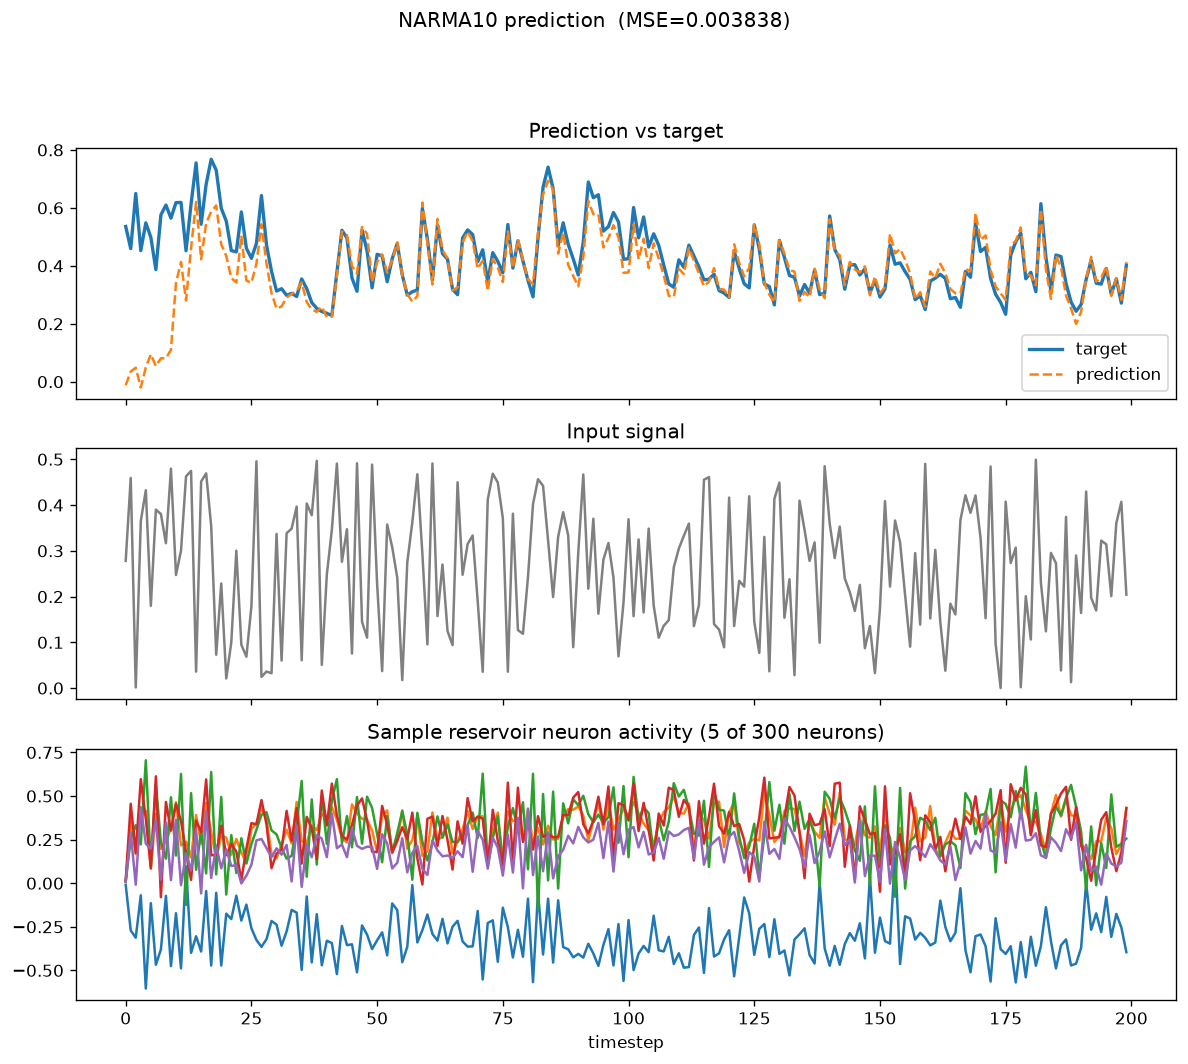
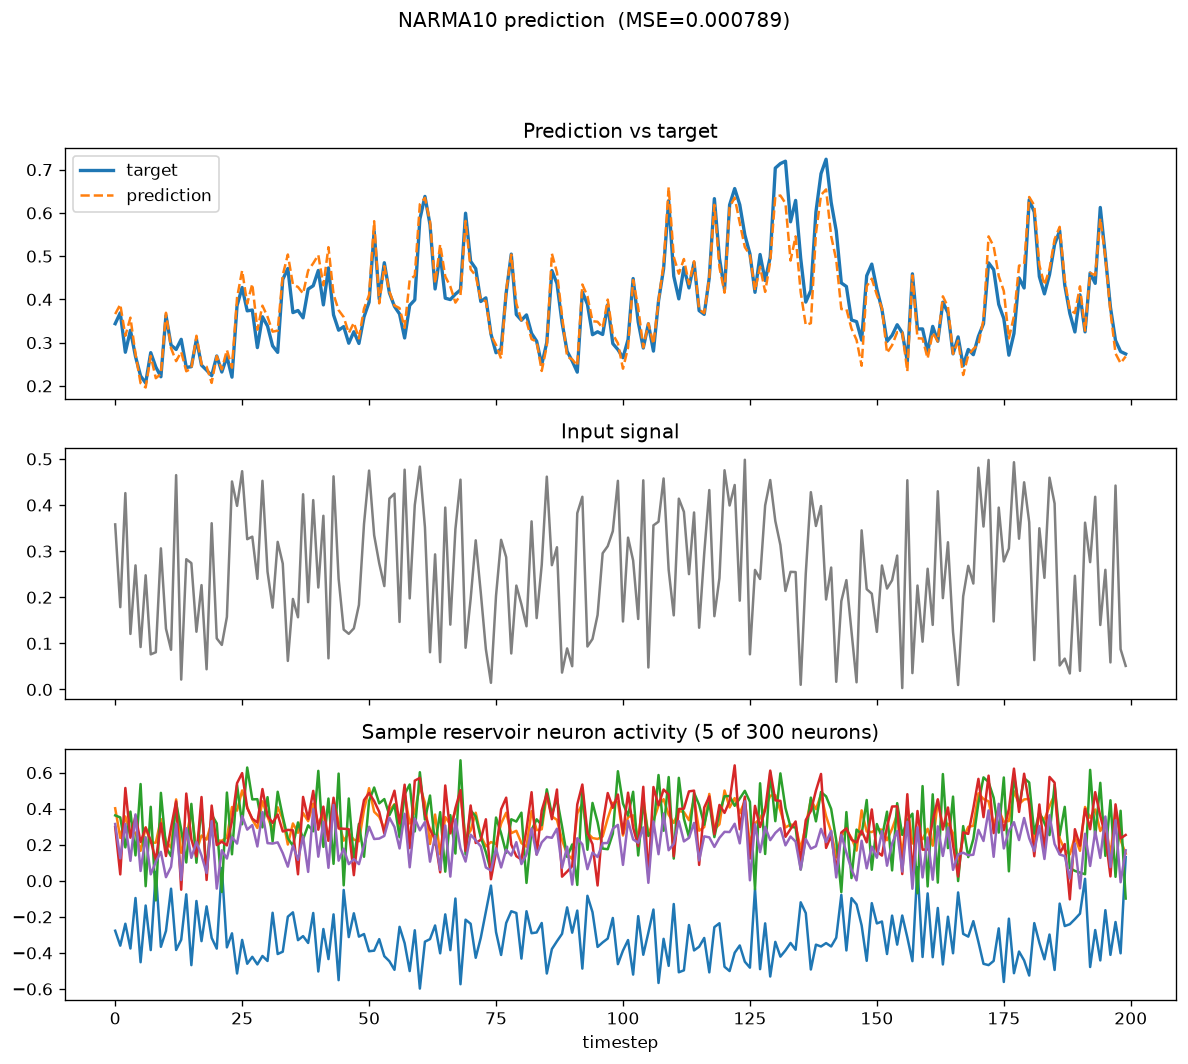
made a few fixes

diff --git a/experiments/exp07_reservoir_seperation.py b/experiments/exp07_reservoir_seperation.py
@@ -1,7 +1,7 @@
 import numpy as np
+import matplotlib.pyplot as plt
 
 from reservoir_lab.reservoir import ESN
-from reservoir_lab.visualize import plot_results
 
 
 # -----------------------------
@@ -52,28 +52,19 @@ states2 = esn.run(signal2)
 # Calculate separation over time
 # -----------------------------
 
-distances = np.linalg.norm(
-    states1 - states2,
-    axis=1
-)
-
-
-# Input separation
-
-input_distance = np.linalg.norm(
-    signal1 - signal2
-)
-
-
-# Final reservoir separation
-
 state_distances = np.linalg.norm(
     states1 - states2,
     axis=1
 )
 
-average_distance = np.mean(state_distances)
+# Input separation over time (same per-timestep basis as state_distances,
+# so the two are actually comparable)
+input_distances = np.linalg.norm(
+    signal1 - signal2,
+    axis=1
+)
 
+average_distance = np.mean(state_distances)
 maximum_distance = np.max(state_distances)
 
 
@@ -81,27 +72,25 @@ print("======================")
 print("Reservoir Separation")
 print("======================")
 
-print(
-    f"Input distance: {input_distance:.6f}"
-)
+print(f"Average input distance: {np.mean(input_distances):.6f}")
+print(f"Average state distance: {average_distance:.6f}")
+print(f"Maximum state distance: {maximum_distance:.6f}")
 
-print(
-    f"Average state distance: {average_distance:.6f}"
-)
-
-print(
-    f"Maximum state distance: {maximum_distance:.6f}"
-)
 
 # -----------------------------
 # Plot separation over time
 # -----------------------------
 
-plot_results(
-    signal1,
-    signal2,
-    distances.reshape(-1,1),
-    states1,
-    title="Reservoir state separation",
-    save_path="experiments/visuals/exp07_separation.png"
-)
+fig, axes = plt.subplots(2, 1, figsize=(10, 6), sharex=True)
+fig.suptitle("Reservoir state separation")
+
+axes[0].plot(input_distances, color="gray")
+axes[0].set_title("Input distance |signal1 - signal2| over time")
+
+axes[1].plot(state_distances, color="C0")
+axes[1].set_title("Reservoir state distance |states1 - states2| over time")
+axes[1].set_xlabel("timestep")
+
+plt.tight_layout(rect=[0, 0, 1, 0.93])
+plt.savefig("experiments/visuals/exp07_separation.png", dpi=120, bbox_inches="tight")
+print("Saved plot to experiments/visuals/exp07_separation.png")

diff --git a/src/reservoir_lab/reservoir.py b/src/reservoir_lab/reservoir.py
@@ -22,6 +22,11 @@ class ESN:
 
         # Scale reservoir to desired spectral radius
         rho = np.max(np.abs(np.linalg.eigvals(W)))
+        if rho == 0:
+            raise ValueError(
+                "Reservoir matrix has spectral radius 0 (all connections were "
+                "zeroed out by sparsification). Increase sparsity or n_reservoir."
+            )
 
         self.W = W * (spectral_radius / rho)
 
@@ -35,13 +40,25 @@ class ESN:
         # Will be learned later
         self.W_out = None
 
+        # State the reservoir is currently sitting in after the most recent
+        # run()/fit()/predict() call. Lets you continue a sequence across
+        # separate calls (e.g. train then test) instead of always resetting
+        # to zero, which otherwise throws away the reservoir's memory right
+        # at the train/test boundary.
+        self.last_state = np.zeros(n_reservoir)
 
-    def run(self, inputs):
+
+    def run(self, inputs, initial_state=None):
         """
         Run a sequence through the reservoir.
 
         inputs:
             shape = (timesteps, n_inputs)
+
+        initial_state:
+            shape = (n_reservoir,), or None to start from zero.
+            Pass esn.last_state to continue from wherever the reservoir
+            left off after a previous call.
 
         returns:
             states:
@@ -52,8 +69,10 @@ class ESN:
             (len(inputs), self.n_reservoir)
         )
 
-        state = np.zeros(
-            self.n_reservoir
+        state = (
+            np.zeros(self.n_reservoir)
+            if initial_state is None
+            else np.array(initial_state, dtype=float)
         )
 
         for t, u in enumerate(inputs):
@@ -66,11 +85,13 @@ class ESN:
 
             states[t] = state
 
+        self.last_state = state.copy()
+
         return states
 
 
 
-    def fit(self, inputs, targets, reg=1e-6):
+    def fit(self, inputs, targets, reg=1e-6, washout=0):
         """
         Original time-series prediction training.
 
@@ -78,31 +99,46 @@ class ESN:
 
             state(t) -> target(t)
 
+        washout:
+            number of initial timesteps to discard before fitting the
+            readout. The reservoir starts at a zero state and needs a few
+            steps to "forget" that and settle onto the trajectory the input
+            actually drives it towards; including that transient in the
+            regression biases W_out. Doesn't affect the `states` returned.
         """
 
         states = self.run(inputs)
 
+        train_states = states[washout:]
+        train_targets = targets[washout:]
+
         self.W_out = np.linalg.solve(
 
-            states.T @ states
+            train_states.T @ train_states
             +
             reg * np.eye(self.n_reservoir),
 
-            states.T @ targets
+            train_states.T @ train_targets
         )
 
         return states
 
 
 
-    def predict(self, inputs):
+    def predict(self, inputs, initial_state=None):
         """
         Original time-series prediction.
+
+        initial_state:
+            shape = (n_reservoir,), or None to start from zero.
+            Pass esn.last_state (set automatically after fit()) to continue
+            the reservoir seamlessly from training into testing instead of
+            resetting to zero at the test boundary.
 
         Returns output for every timestep.
         """
 
-        return self.run(inputs) @ self.W_out
+        return self.run(inputs, initial_state=initial_state) @ self.W_out
 
 
 
@@ -138,6 +174,8 @@ class ESN:
 
         for sequence in sequences:
 
+            # Each sequence is independent, so this intentionally starts
+            # fresh from a zero state every time (no initial_state passed).
             reservoir_states = self.run(sequence)
 
             # Use the final reservoir state as the sequence representation

diff --git a/experiments/exp04_NARMA10.py b/experiments/exp04_NARMA10.py
@@ -6,9 +6,11 @@ from reservoir_lab.visualize import plot_results
 
 # Generate NARMA10 data
 
-def generate_narma10(length):
+def generate_narma10(length, seed=42):
 
-    u = np.random.rand(length, 1) * 0.5
+    rng = np.random.default_rng(seed)
+
+    u = rng.random((length, 1)) * 0.5
     y = np.zeros((length, 1))
 
     for t in range(10, length-1):
@@ -52,17 +54,19 @@ esn = ESN(
 )
 
 
-# 4. Train
+# 4. Train (discard the initial transient)
 
 states = esn.fit(
     train_inputs,
-    train_targets
+    train_targets,
+    washout=100
 )
 
 
-# 5. Predict unseen data
+# 5. Predict unseen data — continue reservoir state from training
 
-pred = esn.predict(test_inputs)
+test_states = esn.run(test_inputs, initial_state=esn.last_state)
+pred = test_states @ esn.W_out
 
 
 # 6. Measure error
@@ -80,7 +84,7 @@ plot_results(
     test_inputs,
     test_targets,
     pred,
-    states,
+    test_states,
     title="NARMA10 prediction",
     save_path="experiments/visuals/narma10.png"
 )

diff --git a/experiments/exp02_sine_generalization.py b/experiments/exp02_sine_generalization.py
@@ -36,17 +36,20 @@ esn = ESN(
 )
 
 
-# 5. Train readout only on training data
+# 5. Train readout only on training data (discard the initial transient)
 
 states = esn.fit(
     train_inputs,
-    train_targets
+    train_targets,
+    washout=100
 )
 
 
-# 6. Predict unseen data
+# 6. Predict unseen data — continue the reservoir state from where
+#    training left off, instead of resetting to zero at the test boundary
 
-pred = esn.predict(test_inputs)
+test_states = esn.run(test_inputs, initial_state=esn.last_state)
+pred = test_states @ esn.W_out
 
 
 # 7. Evaluate
@@ -56,13 +59,13 @@ mse = np.mean((pred - test_targets)**2)
 print(f"Test MSE: {mse}")
 
 
-# 8. Visualize
+# 8. Visualize — use the actual test-period states, not the train states
 
 plot_results(
     test_inputs,
     test_targets,
     pred,
-    states,
+    test_states,
     title="Sine wave generalization",
     save_path="experiments/visuals/sine_generalization.png"
 )

diff --git a/experiments/exp03_mackey_glass.py b/experiments/exp03_mackey_glass.py
@@ -57,19 +57,19 @@ esn = ESN(
 )
 
 
-# 5. Train readout
+# 5. Train readout (discard the initial transient)
 
 states = esn.fit(
     train_inputs,
-    train_targets
+    train_targets,
+    washout=100
 )
 
 
-# 6. Predict unseen data
+# 6. Predict unseen data — continue reservoir state across the train/test boundary
 
-pred = esn.predict(
-    test_inputs
-)
+test_states = esn.run(test_inputs, initial_state=esn.last_state)
+pred = test_states @ esn.W_out
 
 
 # 7. Calculate error
@@ -87,7 +87,7 @@ plot_results(
     test_inputs,
     test_targets,
     pred,
-    states,
+    test_states,
     title="Mackey-Glass prediction",
     save_path="experiments/visuals/mackey_glass.png"
 )